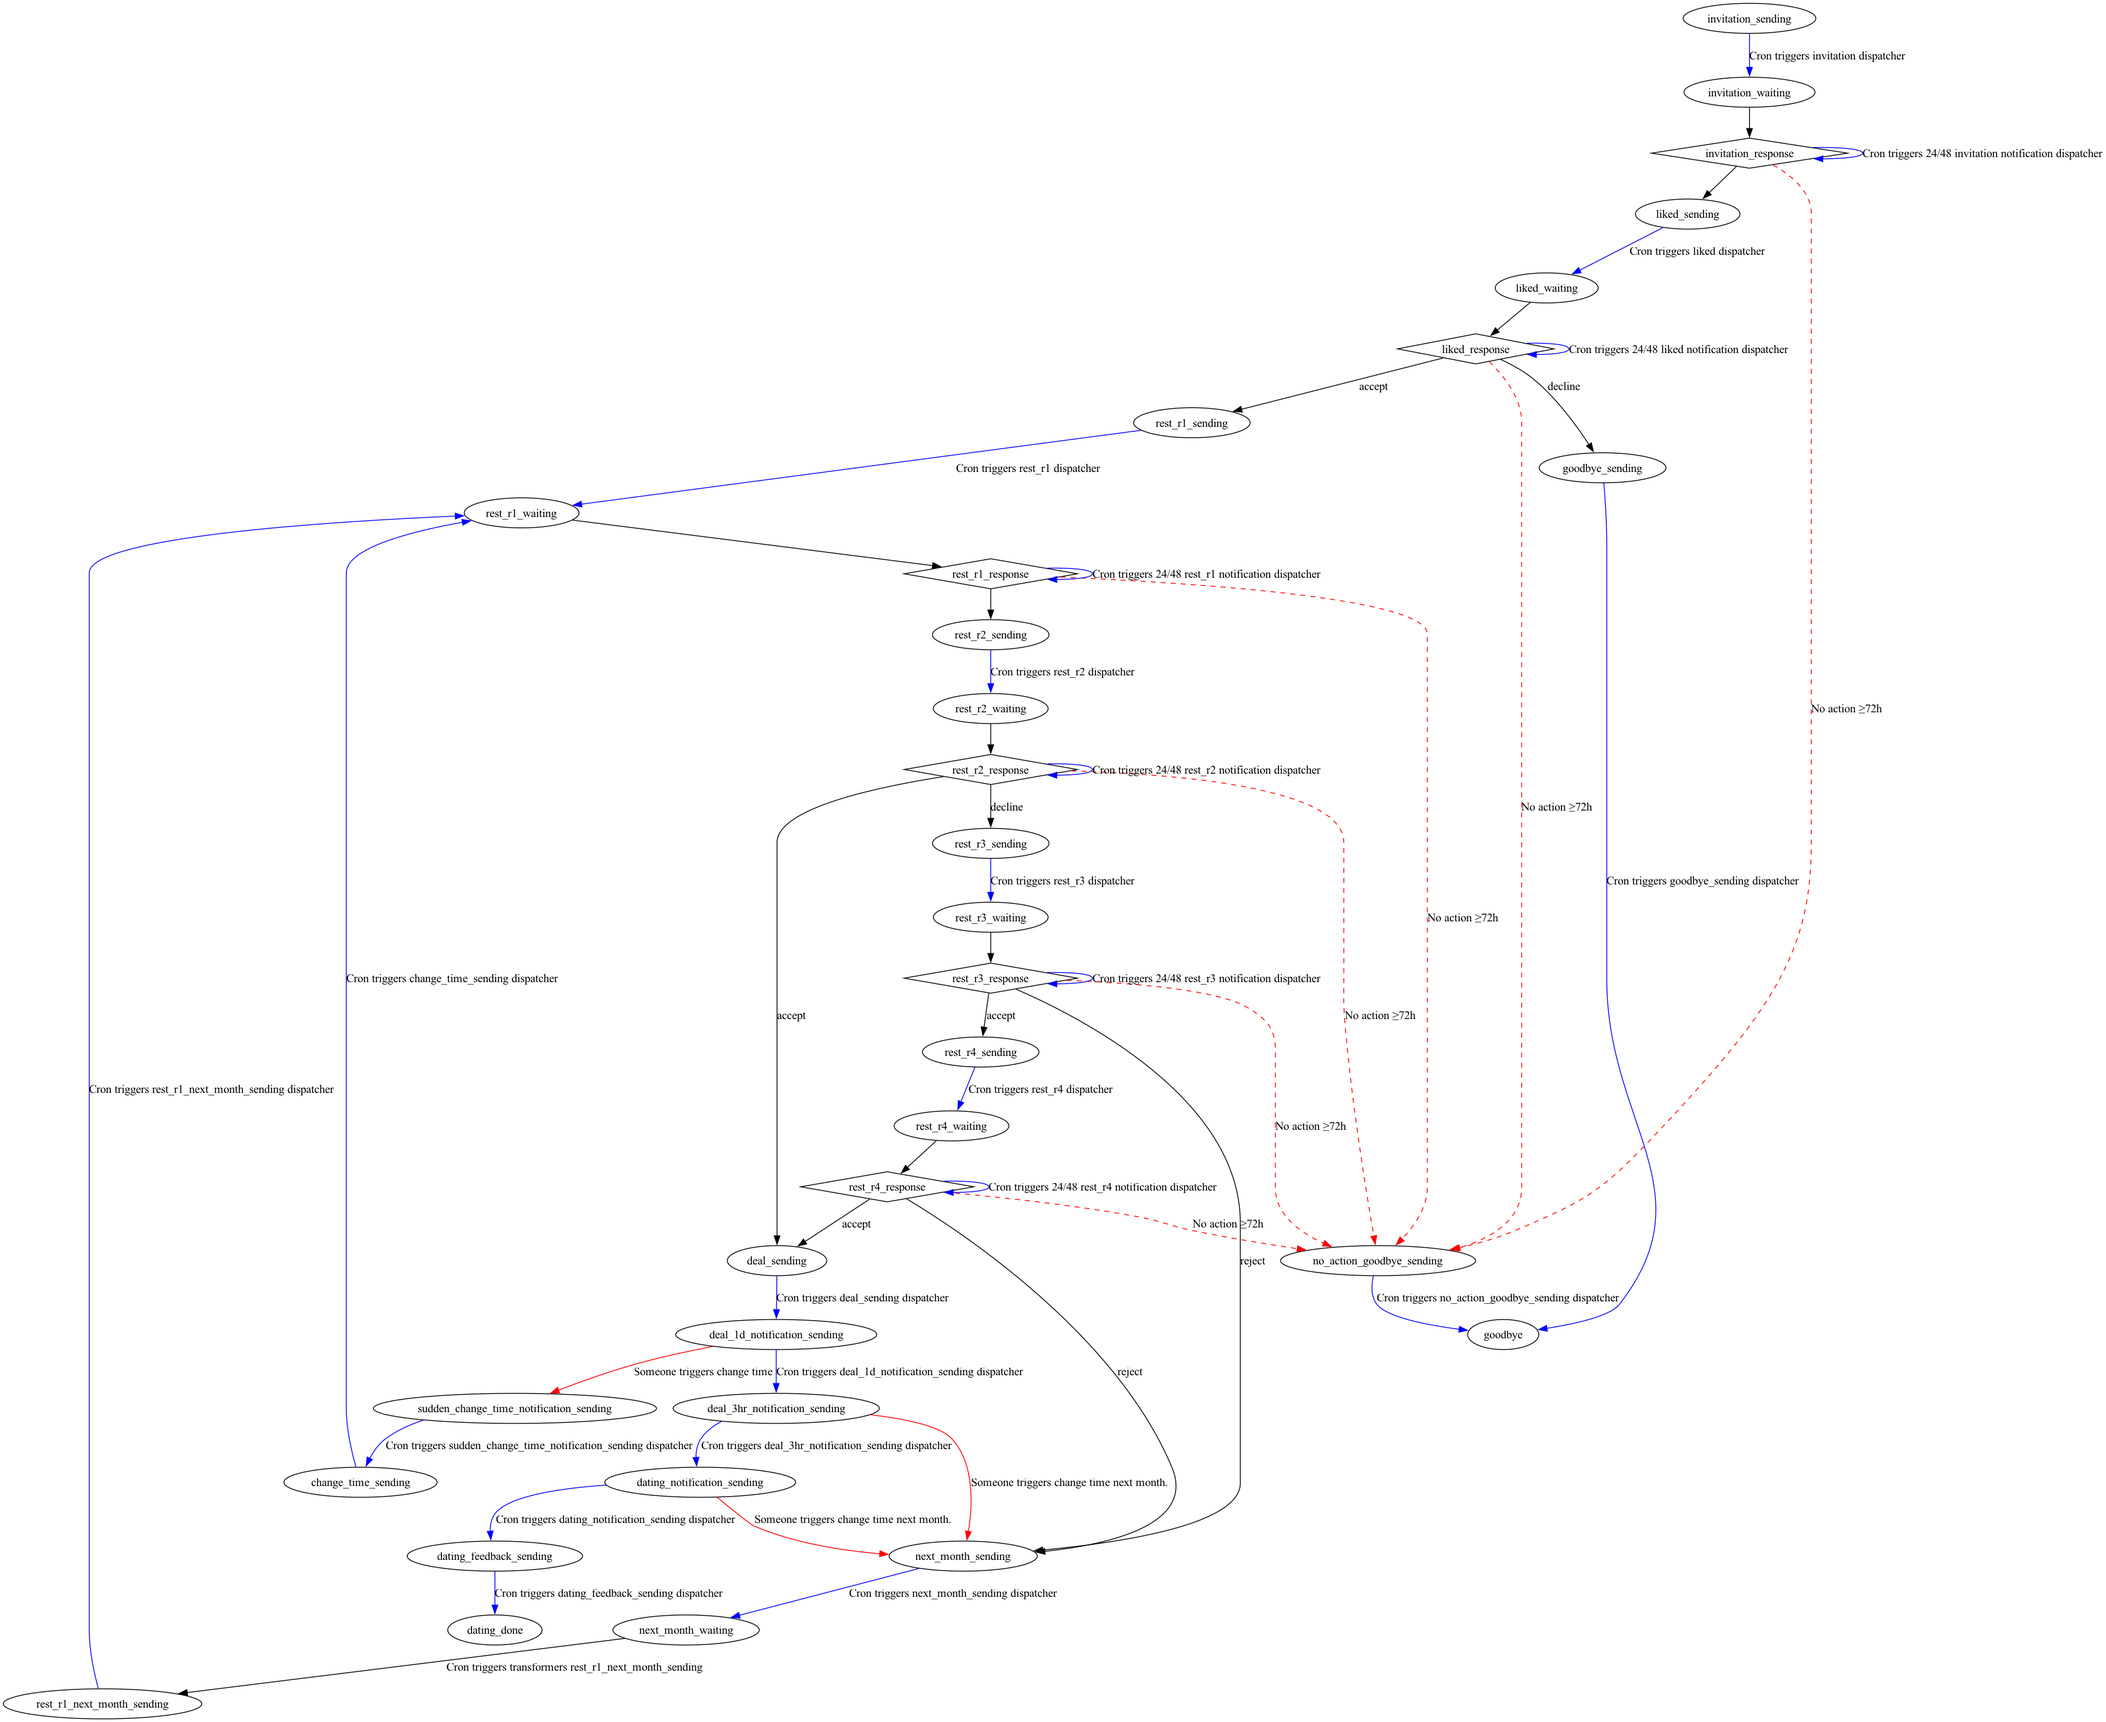
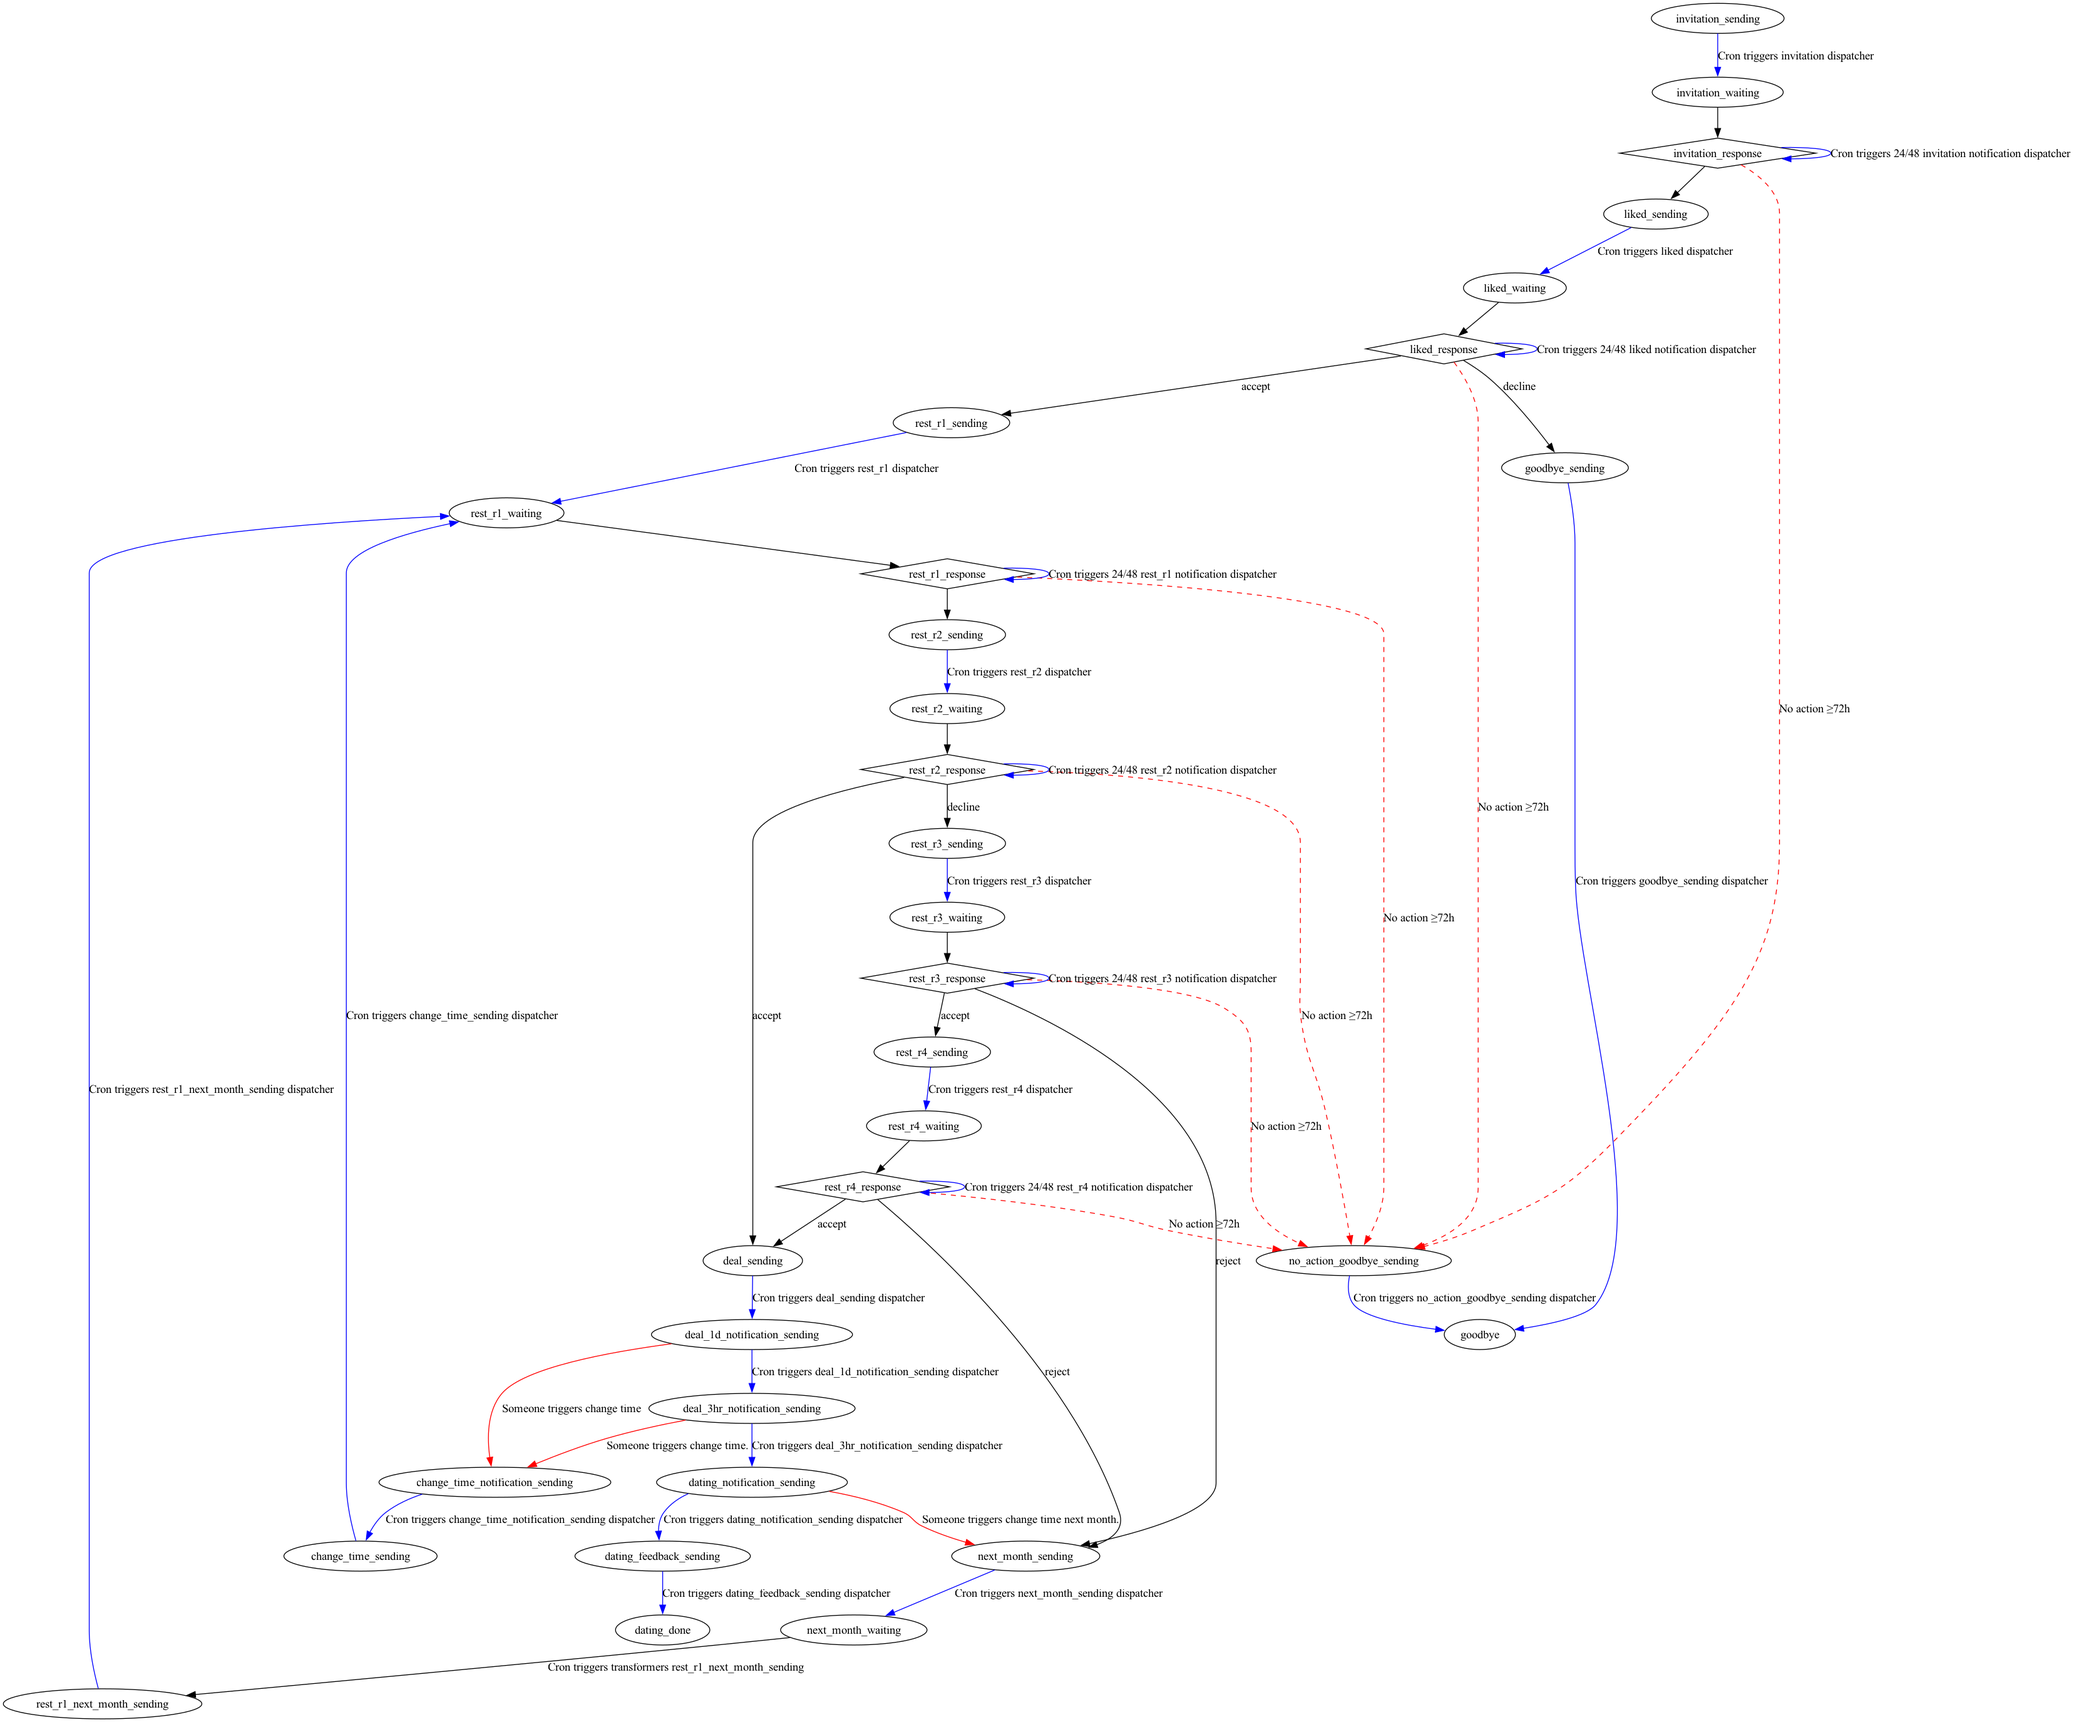
form app完善改時間

diff --git a/form_app/templates/confirm.html b/form_app/templates/confirm.html
@@ -11,7 +11,9 @@ Confirm
     <p class="lead mb-4">{{ message|safe }}</p>
     <form method="post" action="{{ action_url }}">
         <div class="d-grid gap-2 d-sm-flex justify-content-sm-center"> <button type="submit"
-                class="btn btn-primary btn-lg px-4 gap-3">{{ btn_name }}</button>
+                class="btn btn-primary btn-lg px-4 gap-3" {% if alert %}onclick="return confirm('{{ alert }}');" {%
+                endif %}>{{ btn_name }}</button>
+
         </div>
     </form>
     {% endblock %}

diff --git a/form_app/app.py b/form_app/app.py
@@ -1,6 +1,5 @@
 
 import os
-import re
 
 import psycopg
 from dotenv import load_dotenv
@@ -181,17 +180,29 @@ def sudden_change_time(token, who):
         return render_template('error.html', message='錯誤❌')
 
     if request.method == 'POST':
+
+        if matching_info['current_state'] not in ('dating_notification_sending'):
+            return render_template('error.html', message='目前狀態無法使用超臨時改期❌，請聯絡客服做處理！')
+
         # insert change_time_message
         change_time_stmt = """
         insert into sudden_change_time_history
         (member_id, created_at, matching_id)
         values (%s, now(), %s)
         """
-        with get_db() as conn:
-            with conn.cursor() as curr:
-                curr.execute(change_time_stmt, (member_id,
-                             matching_info['id']))
-            conn.commit()
+
+        change_state_stmt = """
+        update matching set current_state = 'next_month_sending',
+        updated_at = now() where id = %s;
+        """
+
+        conn = get_db()
+
+        with conn.cursor() as curr:
+            curr.execute(change_time_stmt, (member_id,
+                                            matching_info['id']))
+            curr.execute(change_state_stmt, (matching_info['id'],))
+        conn.commit()
 
         return render_template('thank_you.html',
                                header='已成功改期',
@@ -202,8 +213,10 @@ def sudden_change_time(token, who):
     else:
         return render_template('confirm.html',
                                message=f"是否對{get_proper_name(member_id)}觸發超臨時改期？",
+                               btn_name='確認改期',
                                action_url=url_for(
-                                   'sudden_change_time', token=token, who=who))
+                                   'sudden_change_time', token=token, who=who),
+                               alert='確定要觸發超臨時改期嗎？')
 
 
 @app.route('/<token>/change_time/<who>', methods=['GET', 'POST'])
@@ -219,17 +232,32 @@ def change_time(token, who):
         else:
             return render_template('error.html', message='錯誤❌')
 
+        # first check right state
+        stmt = """
+        select current_state from matching where id = %s;
+        """
+
+        if matching_info['current_state'] not in ('deal_1d_notification_sending', 'deal_3d_notification_sending'):
+            return render_template('error.html', message='目前狀態無法改期❌，請聯絡客服做處理！')
+
         # insert change_time_message
         change_time_stmt = """
         insert into change_time_history
         (member_id, created_at, matching_id, change_time_message)
         values (%s, now(), %s, %s)
         """
-        with get_db() as conn:
-            with conn.cursor() as curr:
-                curr.execute(change_time_stmt, (member_id,
-                             matching_info['id'], message))
-            conn.commit()
+
+        change_state_stmt = """
+        update matching set current_state = 'change_time_notification_sending',
+        updated_at = now() where id = %s;
+        """
+
+        conn = get_db()
+        with conn.cursor() as curr:
+            curr.execute(change_time_stmt, (member_id,
+                                            matching_info['id'], message))
+            curr.execute(change_state_stmt, (matching_info['id'],))
+        conn.commit()
 
         return render_template('thank_you.html',
                                header='您已成功改期',

diff --git a/flow_charts/main.py b/flow_charts/main.py
@@ -21,7 +21,7 @@ states = [
     'deal_sending',
     'deal_1d_notification_sending',
     'deal_3hr_notification_sending',
-    'sudden_change_time_notification_sending',
+    'change_time_notification_sending',
     'next_month_sending',
     'next_month_waiting'
 ]
@@ -90,14 +90,14 @@ sending_edges = [('deal_sending', 'deal_1d_notification_sending'),
                  ('deal_3hr_notification_sending', 'dating_notification_sending'),
                  ('dating_notification_sending', 'dating_feedback_sending'),
                  ('dating_feedback_sending', 'dating_done'),
-                 ('sudden_change_time_notification_sending', 'change_time_sending')
+                 ('change_time_notification_sending', 'change_time_sending')
                  ]
 for from_node, to_node in sending_edges:
     dot.edge(from_node, to_node, label=f'Cron triggers {from_node} dispatcher',
              color='blue')
 
 
-dot.edge('deal_1d_notification_sending', 'sudden_change_time_notification_sending',
+dot.edge('deal_1d_notification_sending', 'change_time_notification_sending',
          label='Someone triggers change time', color='red')
 
 
@@ -106,8 +106,8 @@ dot.edge('change_time_sending', 'rest_r1_waiting',
          color='blue')
 
 
-dot.edge('deal_3hr_notification_sending', 'next_month_sending',
-         label='Someone triggers change time next month.',
+dot.edge('deal_3hr_notification_sending', 'change_time_notification_sending',
+         label='Someone triggers change time.',
          color='red')
 
 dot.edge('dating_notification_sending', 'next_month_sending',

diff --git a/senders/senders.py b/senders/senders.py
@@ -277,8 +277,7 @@ class RestR4Sender(Sender):
 
 class DealSender(Sender):
     OLD_STATE = 'deal_sending'
-    NEW_STATE = 'deal_sending'
-    # NEW_STATE = 'deal_1d_notification_sending'
+    NEW_STATE = 'deal_1d_notification_sending'
 
     def modify_bubble(self):
         base_bubble = load_bubble_raw('deal_bubble.json')
